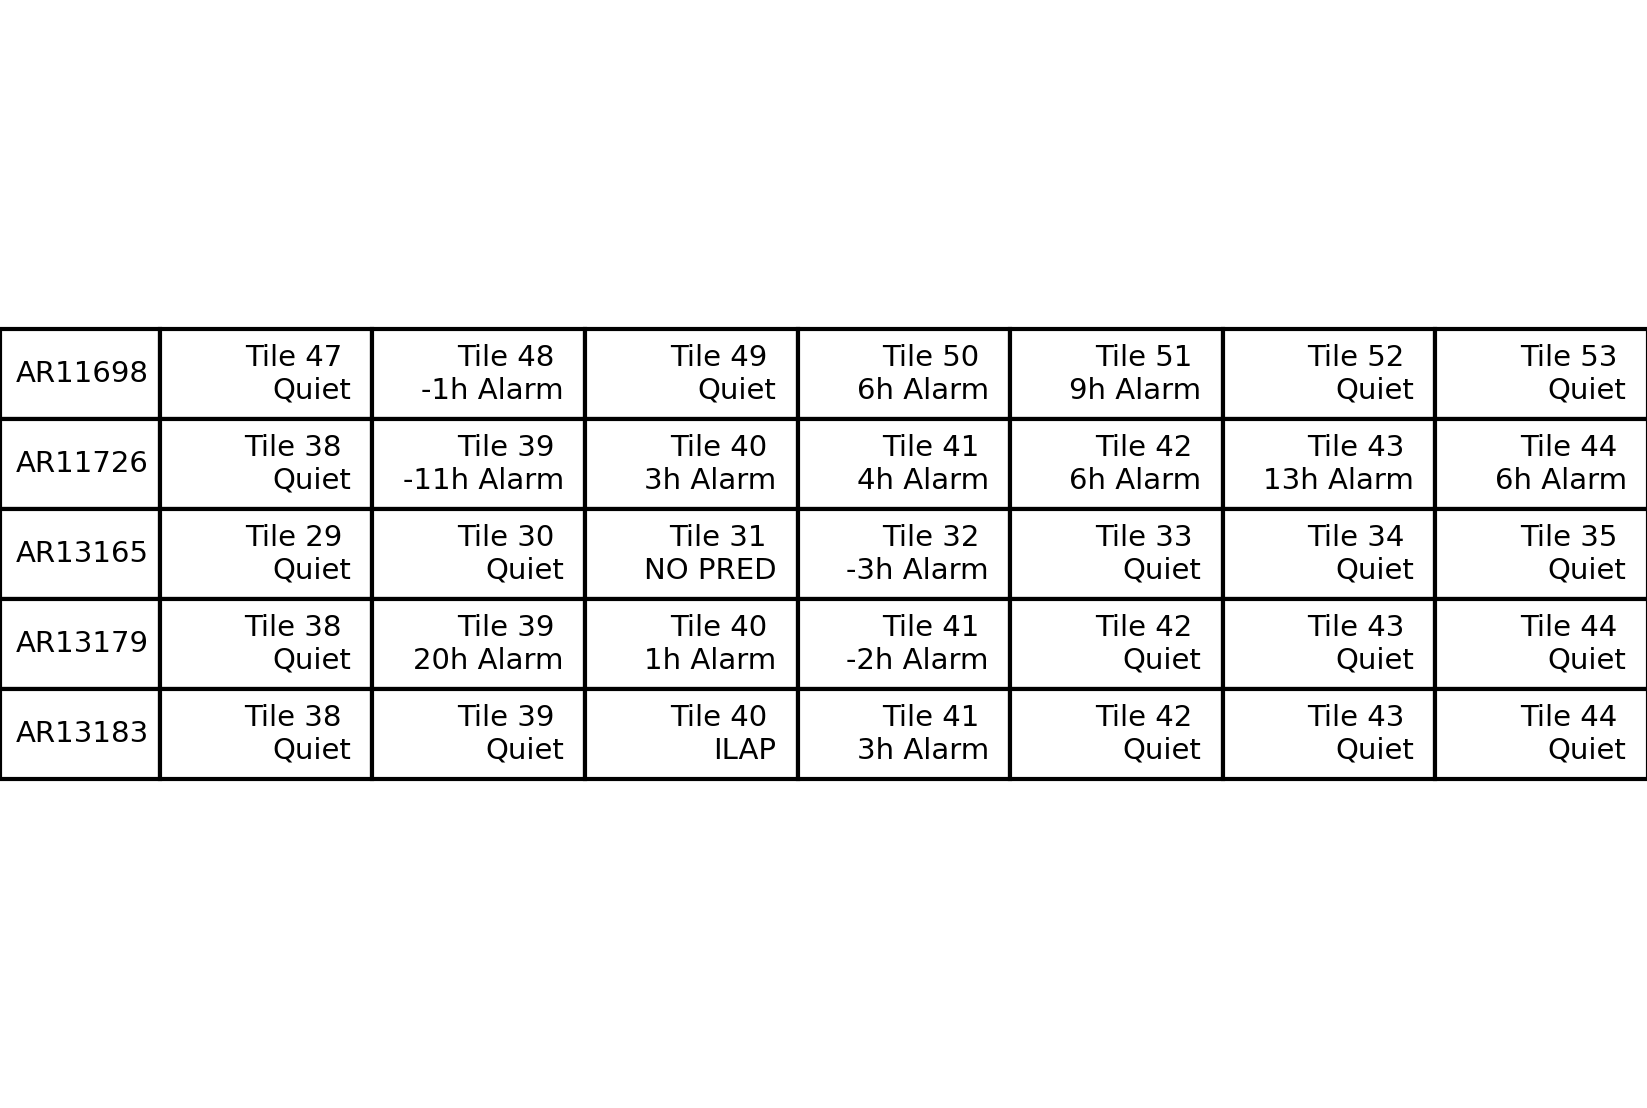
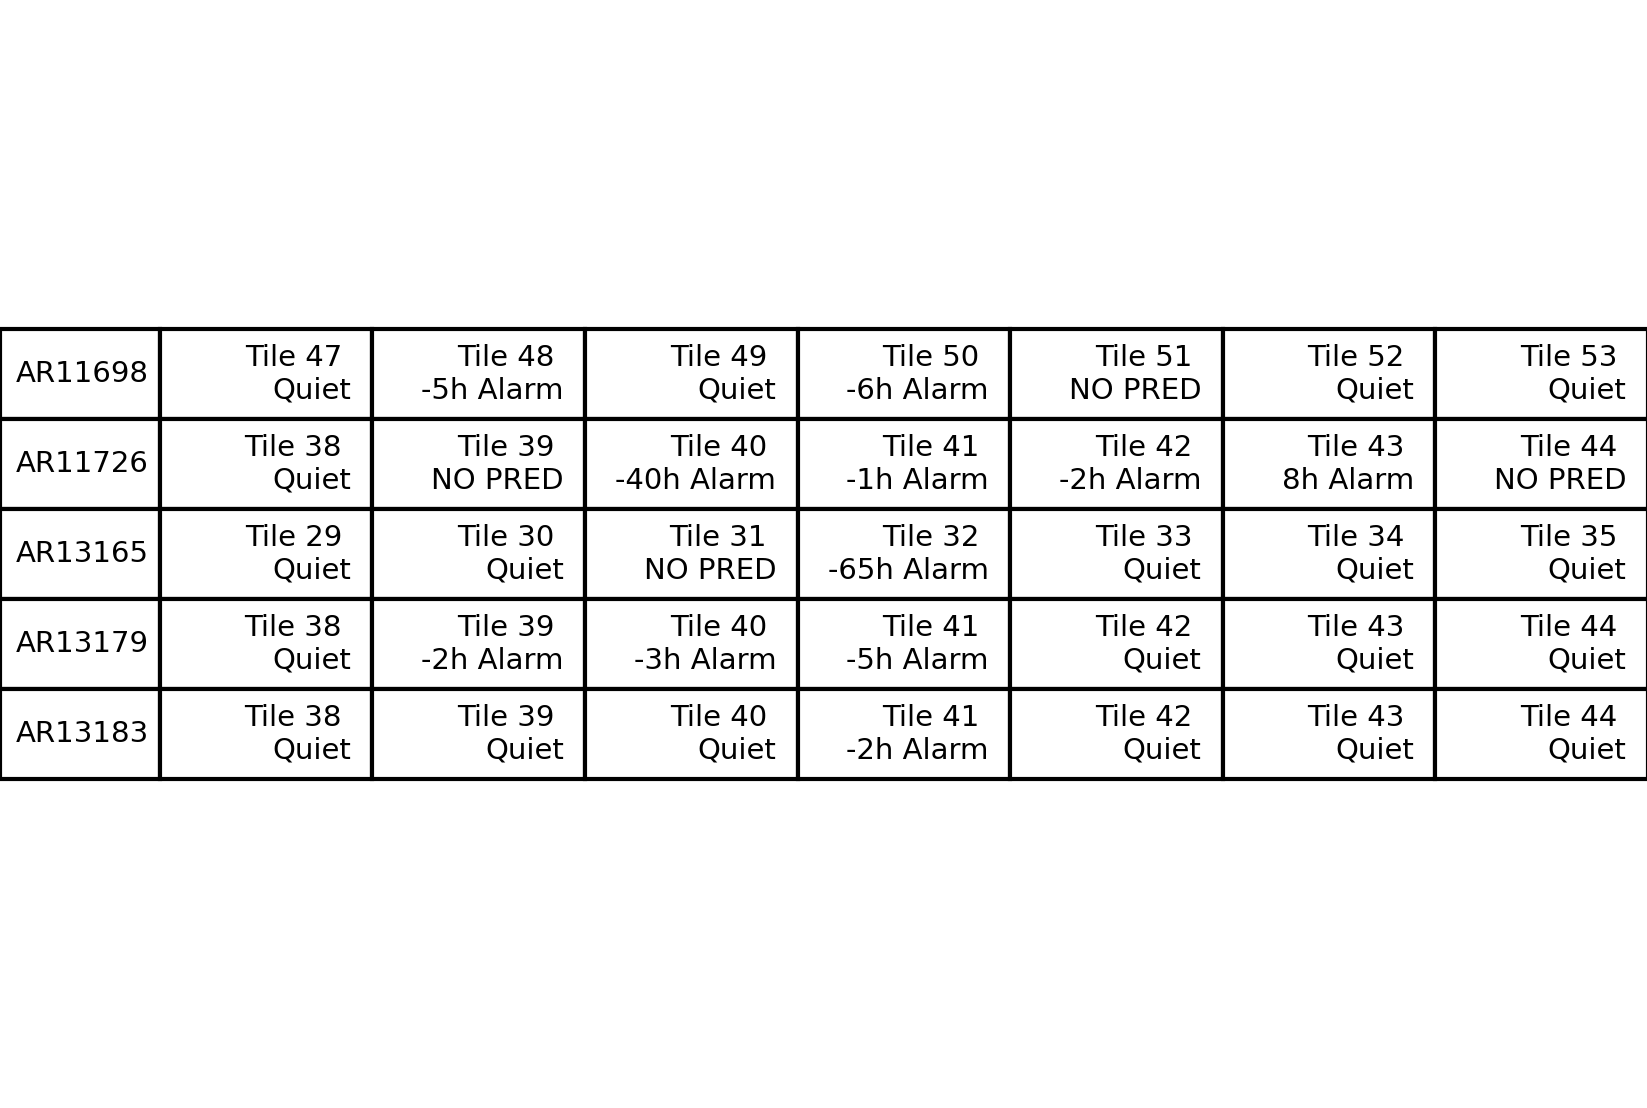
lstm magnitude derivative loss

diff --git a/lstm/functions.py b/lstm/functions.py
@@ -18,7 +18,7 @@ import re
 from collections import OrderedDict
 import glob
 
-isVanillaLSTM = True
+isVanillaLSTM = False
 warnings.filterwarnings("ignore")
 l = re.split(r"[\\/]", os.path.abspath(os.getcwd()))
 BASE_PATH = "/".join(l[:-1]) + "/"
@@ -306,7 +306,7 @@ def process_data(maps, flux, cont_int, m_scale, f_scale, cont_int_scale):
 
 def get_params(path):
     pth_files = glob.glob(
-        path + "SAR_EMERGENCE_RESEARCH/lstm/results/pred12_r4_i110_n1_h32_e10_lr0.00500000_d0.0.pth"
+        path + "SAR_EMERGENCE_RESEARCH/lstm/results/pred12_r4_i110_n4_h32_e2_lr0.00010000_d0.2.pth"
     )  # Assuming there's only one .pth file and its naming follows the specific pattern
     filename = pth_files[0]
     matches = re.findall(
@@ -460,76 +460,114 @@ def prepare_dataset(
 
 
 # --- Model Training & Evaluation ---
-def train_epoch(model, dataloader, loss_fn, optimizer, device):
-    """Runs a single training epoch."""
+def train_epoch(model, dataloader, loss_fn, optimizer, device, teacher_ratio, alpha):
     model.train()
     total_loss = 0
+    loss_scaler = 100.0 
+    
+    # Weighting factor for the two loss components
+    # alpha
+
     for x, y in dataloader:
         x, y = x.to(device), y.to(device)
-
         optimizer.zero_grad()
-        outputs = model(x)
-        loss = loss_fn(outputs, y)
-        loss.backward()
+        
+        outputs = model(x, y, teacher_forcing_ratio=teacher_ratio) 
+        
+        # 1. Calculate loss on the actual values
+        value_loss = loss_fn(outputs, y)
+        
+        # 2. Calculate loss on the derivatives
+        outputs_deriv = outputs[:, 1:] - outputs[:, :-1]
+        y_deriv = y[:, 1:] - y[:, :-1]
+        derivative_loss = loss_fn(outputs_deriv, y_deriv)
+        
+        # 3. Combine them into a hybrid loss
+        loss = alpha * value_loss + (1 - alpha) * derivative_loss
+
+        scaled_loss = loss * loss_scaler
+        scaled_loss.backward()
         torch.nn.utils.clip_grad_norm_(model.parameters(), max_norm=1.0)
         optimizer.step()
-
         total_loss += loss.item()
 
     return total_loss / len(dataloader)
 
 
-def validate_model(model, dataloader, loss_fn, device):
-    """
-    Validates the model, calculating both loss and RMSE for a specific future time step.
-    """
+# def validate_model(model, dataloader, loss_fn, device):
+#     """
+#     Validates the model, calculating both loss and RMSE for a specific future time step.
+#     """
+#     model.eval()
+#     total_loss = 0
+#     all_calibrated_preds = []
+#     all_y = []
+    
+#     # This is the specific time step you want to evaluate (12th hour)
+#     future = 11 
+
+#     with torch.no_grad():
+#         for x, y, last_vals in dataloader: 
+#             x, y, last_vals = x.to(device), y.to(device), last_vals.to(device)
+            
+#             # Get model predictions (full sequence)
+#             preds = model(x)
+
+#             # --- Calibrate the entire batch of sequences first ---
+#             calibrated_preds_batch = torch.zeros_like(preds)
+#             for i in range(preds.shape[0]):
+#                 calibrated_sequence = recalibrate(preds[i].cpu().numpy(), last_vals[i].cpu().item())
+#                 calibrated_preds_batch[i,:] = torch.tensor(calibrated_sequence, device=device)
+
+#             # --- KEY CHANGE FOR LOSS CALCULATION ---
+#             # Slice the calibrated predictions and true values to get only the 12th hour
+#             preds_at_12h = calibrated_preds_batch[:, future]
+#             y_at_12h = y[:, future]
+            
+#             # Calculate loss for this batch on the specific time step
+#             loss = loss_fn(preds_at_12h, y_at_12h)
+#             total_loss += loss.item()
+            
+#             # Store the results for the final RMSE calculation
+#             all_calibrated_preds.append(calibrated_preds_batch.cpu().numpy())
+#             all_y.append(y.cpu().numpy())
+
+#     # --- RMSE Calculation (remains the same) ---
+#     all_calibrated_preds_array = np.concatenate(all_calibrated_preds, axis=0)
+#     all_y_array = np.concatenate(all_y, axis=0)
+
+#     preds_at_12h_all = all_calibrated_preds_array[:, future]
+#     y_at_12h_all = all_y_array[:, future]
+
+#     rmse = np.sqrt(np.mean((preds_at_12h_all - y_at_12h_all)**2))
+    
+#     # Return both the average loss and the final RMSE
+#     avg_loss = total_loss / len(dataloader)
+#     return avg_loss, rmse
+
+def validate_model(model, dataloader, device):
     model.eval()
-    total_loss = 0
-    all_calibrated_preds = []
+    all_preds = []
     all_y = []
     
-    # This is the specific time step you want to evaluate (12th hour)
-    future = 11 
-
     with torch.no_grad():
-        for x, y, last_vals in dataloader: 
-            x, y, last_vals = x.to(device), y.to(device), last_vals.to(device)
+        for x, y in dataloader:
+            x, y = x.to(device), y.to(device)
             
-            # Get model predictions (full sequence)
-            preds = model(x)
-
-            # --- Calibrate the entire batch of sequences first ---
-            calibrated_preds_batch = torch.zeros_like(preds)
-            for i in range(preds.shape[0]):
-                calibrated_sequence = recalibrate(preds[i].cpu().numpy(), last_vals[i].cpu().item())
-                calibrated_preds_batch[i,:] = torch.tensor(calibrated_sequence, device=device)
-
-            # --- KEY CHANGE FOR LOSS CALCULATION ---
-            # Slice the calibrated predictions and true values to get only the 12th hour
-            preds_at_12h = calibrated_preds_batch[:, future]
-            y_at_12h = y[:, future]
+            # --- KEY CHANGE ---
+            # Do NOT pass 'y' during validation/inference
+            preds = model(x, y=None) 
             
-            # Calculate loss for this batch on the specific time step
-            loss = loss_fn(preds_at_12h, y_at_12h)
-            total_loss += loss.item()
-            
-            # Store the results for the final RMSE calculation
-            all_calibrated_preds.append(calibrated_preds_batch.cpu().numpy())
+            all_preds.append(preds.cpu().numpy())
             all_y.append(y.cpu().numpy())
 
-    # --- RMSE Calculation (remains the same) ---
-    all_calibrated_preds_array = np.concatenate(all_calibrated_preds, axis=0)
-    all_y_array = np.concatenate(all_y, axis=0)
-
-    preds_at_12h_all = all_calibrated_preds_array[:, future]
-    y_at_12h_all = all_y_array[:, future]
-
-    rmse = np.sqrt(np.mean((preds_at_12h_all - y_at_12h_all)**2))
+    # (The rest of the derivative RMSE calculation is the same)
+    # ...
+    pred_derivatives = np.diff(np.concatenate(all_preds, axis=0), axis=1)
+    true_derivatives = np.diff(np.concatenate(all_y, axis=0), axis=1)
+    derivative_rmse = np.sqrt(np.mean((pred_derivatives - true_derivatives)**2))
     
-    # Return both the average loss and the final RMSE
-    avg_loss = total_loss / len(dataloader)
-    return avg_loss, rmse
-
+    return derivative_rmse
 class PlateauStopper(tune.stopper.Stopper):
     """Stops trials when the metric has plateaued."""
 

diff --git a/lstm/grid_search.py b/lstm/grid_search.py
@@ -49,13 +49,15 @@ def main(config):
 
     # Initialize wandb
     wandb.init(
-        project=f"{model_type},global_min_max",
+        project=f"{model_type},LSTM with magnitude and derivative loss ",
         entity=os.environ.get("WANDB_ENTITY"),
         config=config,
         name=f"{model_type}_pred{config['num_pred']}_r{config['rid_of_top']}_i{config['num_in']}_n{config['num_layers']}_h{config['hidden_size']}_e{config['n_epochs']}_l{config['learning_rate']:.5f}_d{config['dropout']:.2f}",
         notes=f"{model_type} training with lr={config['learning_rate']}, dropout={config['dropout']}",
     )
-
+    rot = 4
+    num_in = 110
+    num_pred = 12
     # --- Data Loading ---
     print("Loading and preparing training data...")
     train_ars = [
@@ -105,9 +107,9 @@ def main(config):
         prepare_dataset(
             train_ars,
             9,
-            config["rid_of_top"],
-            config["num_in"],
-            config["num_pred"],
+            rot,
+            num_in,
+            num_pred,
         )
     )
 
@@ -116,9 +118,9 @@ def main(config):
     x_val, y_val, last_all, _, _, _, _ = prepare_dataset(
         val_ars,
         9,
-        config["rid_of_top"],
-        config["num_in"],
-        config["num_pred"],
+        rot,
+        num_in,
+        num_pred,
         m_scale,
         flux_scale,
         cont_int_scale,
@@ -132,7 +134,7 @@ def main(config):
         TensorDataset(x_train, y_train), batch_size=config["batch_size"], shuffle=True
     )
     val_loader = DataLoader(
-        TensorDataset(x_val, y_val, last_all),
+        TensorDataset(x_val, y_val),
         batch_size=config["batch_size"],
         shuffle=False,
     )
@@ -142,7 +144,7 @@ def main(config):
         input_size,
         config["hidden_size"],
         config["num_layers"],
-        config["num_pred"],
+        num_pred,
         dropout=config["dropout"],
     ).to(device)
     loss_fn = nn.MSELoss()
@@ -153,8 +155,8 @@ def main(config):
     # --- Training Loop ---
     print("Starting training...")
     for epoch in range(config["n_epochs"]):
-        train_loss = train_epoch(model, train_loader, loss_fn, optimizer, device)
-        val_loss, val_rmse = validate_model(model, val_loader, loss_fn, device)
+        train_loss = train_epoch(model, train_loader, loss_fn, optimizer, device, config['teacher_forcing_ratio'], config['alpha'])
+        val_rmse = validate_model(model, val_loader, device)
 
         lr = scheduler.get_last_lr()[0]
         scheduler.step(val_rmse)
@@ -162,7 +164,7 @@ def main(config):
         log_metrics = {
             "epoch": epoch,
             "train_loss": train_loss,
-            "validation_loss": val_loss,
+            # "validation_loss": val_loss,
             "learning_rate": float(lr),
             "RMSE": val_rmse,
         }
@@ -220,42 +222,51 @@ def parse_args():
 
 
 if __name__ == "__main__":
-    # For this refactoring to be fully functional, you must provide
-    # the implementations for these functions from your 'functions.py' file.
-    config = parse_args()
+    # Define the search space from the section above
     search_space = {
-        "num_pred": tune.choice([12]),
-        "rid_of_top": tune.choice([4]),
-        "num_in": tune.choice([110]),
-        "num_layers": tune.choice([1, 2, 3, 4]),
-        "hidden_size": tune.choice([10, 32, 64, 128, 150]),
-        "n_epochs": tune.choice([500]),
-        "learning_rate": tune.loguniform(1e-5, 1e-3),
-        "dropout": tune.choice([0, 0.01, 0.1]),
-        "batch_size": tune.choice([4, 8, 16, 32]),
+        "learning_rate": tune.loguniform(1e-5, 1e-2),
+        "alpha": tune.choice([0.1, 0.3, 0.5, 0.7, 0.9]),
+        "teacher_forcing_ratio": tune.choice([0.1, 0.25, 0.5]),
+        "hidden_size": tune.choice([32, 64, 128]),
+        "num_layers": tune.choice([2, 3, 4]),
+        "dropout": tune.choice([0.1, 0.2, 0.3]),
+        "batch_size": tune.choice([32, 64]),
+        # Add any other fixed parameters your train function needs
+        "n_epochs": 100, # Example fixed parameter
     }
-    algo = OptunaSearch()
-    scheduler = ASHAScheduler(max_t=500, grace_period=10, reduction_factor=3)
-
-    custom_stopper = PlateauStopper(
-        "RMSE", min_epochs=50, patience=10, min_improvement_percent=0.5
+    
+    # Scheduler to early-stop bad trials
+    scheduler = ASHAScheduler(
+        metric="RMSE",
+        mode="min",
+        grace_period=10, # Min epochs before a trial can be stopped
+        reduction_factor=2
     )
 
-    ray.init(num_cpus=4, num_gpus=2, include_dashboard=False)
-    tuner = tune.Tuner(  # ③
-        tune.with_resources(main, {"gpu": 1}),
-        tune_config=tune.TuneConfig(
-            metric="RMSE",
-            mode="min",
-            search_alg=algo,
-            scheduler=scheduler,
-            num_samples=config["sample_size"],
-            trial_dirname_creator=lambda trial: str(trial.trial_id),
-        ),
-        run_config=tune.RunConfig(
-            stop=custom_stopper,
-        ),
+    # Search algorithm
+    search_alg = OptunaSearch(
+        metric="RMSE",
+        mode="min"
+    )
+
+    # Set up the Tuner
+    tuner = tune.Tuner(
+        main,
         param_space=search_space,
+        tune_config=tune.TuneConfig(
+            num_samples=50,  # Number of different hyperparameter combinations to try
+            scheduler=scheduler,
+            search_alg=search_alg,
+        ),
+        run_config=ray.train.RunConfig(
+            name="lstm_hyperparameter_search",
+            stop={"training_iteration": 100}, # Max epochs per trial
+        )
     )
+
+    # Run the hyperparameter search
     results = tuner.fit()
-    print("Best config is:", results.get_best_result().config)
+
+    # Get the best result
+    best_config = results.get_best_result(metric="RMSE", mode="min").config
+    print("Best config found: ", best_config)

diff --git a/lstm/train.py b/lstm/train.py
@@ -104,12 +104,14 @@ def main(config):
         13085,
         13098,
     ]
-    x_train, y_train,_, input_size, m_scale, flux_scale, cont_int_scale = prepare_dataset(
-        train_ars,
-        9,
-        config["rid_of_top"],
-        config["num_in"],
-        config["num_pred"],
+    x_train, y_train, _, input_size, m_scale, flux_scale, cont_int_scale = (
+        prepare_dataset(
+            train_ars,
+            9,
+            config["rid_of_top"],
+            config["num_in"],
+            config["num_pred"],
+        )
     )
 
     print("Loading and preparing test data...")
@@ -133,7 +135,7 @@ def main(config):
         TensorDataset(x_train, y_train), batch_size=config["batch_size"], shuffle=True
     )
     val_loader = DataLoader(
-        TensorDataset(x_val, y_val, last_val), batch_size=config["batch_size"], shuffle=False
+        TensorDataset(x_val, y_val), batch_size=config["batch_size"], shuffle=False
     )
 
     # --- Model & Optimizer ---
@@ -152,7 +154,7 @@ def main(config):
     print("Starting training...")
     for epoch in range(config["n_epochs"]):
         train_loss = train_epoch(model, train_loader, loss_fn, optimizer, device)
-        val_loss, val_rmse = validate_model(model, val_loader, loss_fn, device)
+        val_rmse = validate_model(model, val_loader, device)
 
         lr = scheduler.get_last_lr()[0]
         scheduler.step(val_rmse)
@@ -167,7 +169,7 @@ def main(config):
         log_metrics = {
             "epoch": epoch,
             "train_loss": train_loss,
-            "validation_loss": val_loss,
+            # "validation_loss": val_loss,
             "learning_rate": float(lr),
             "RMSE": val_rmse,
         }
